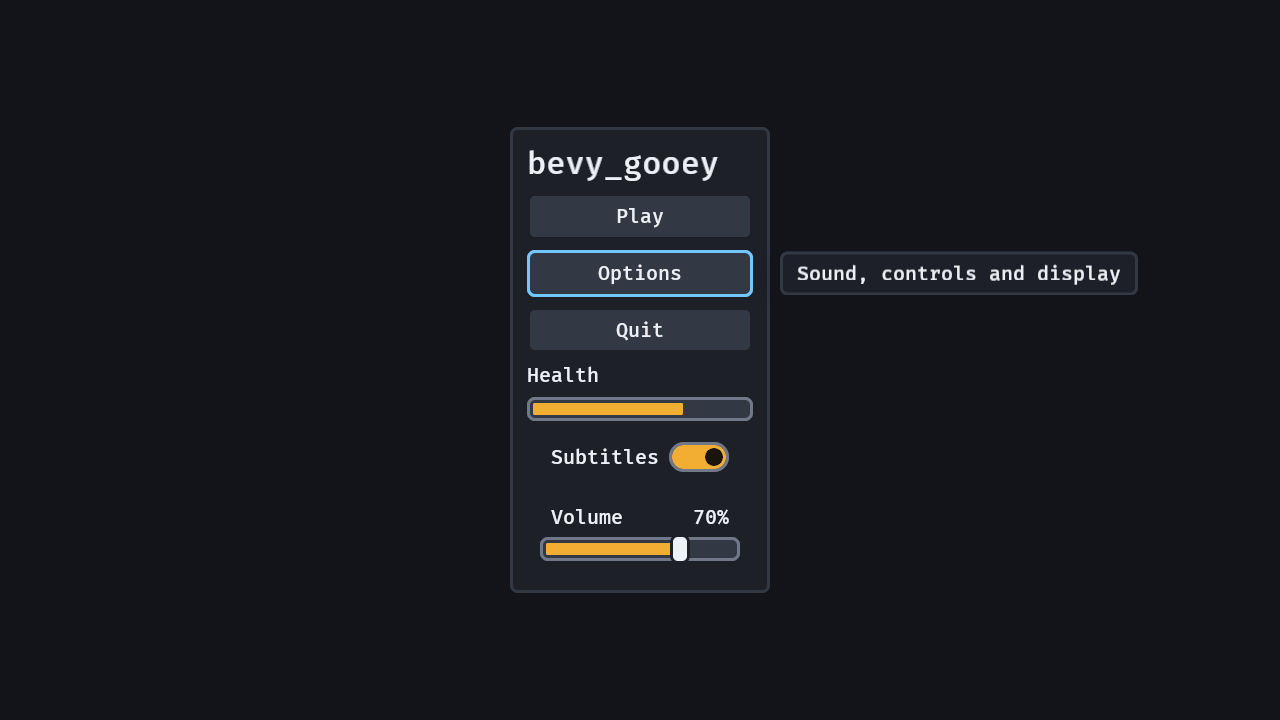
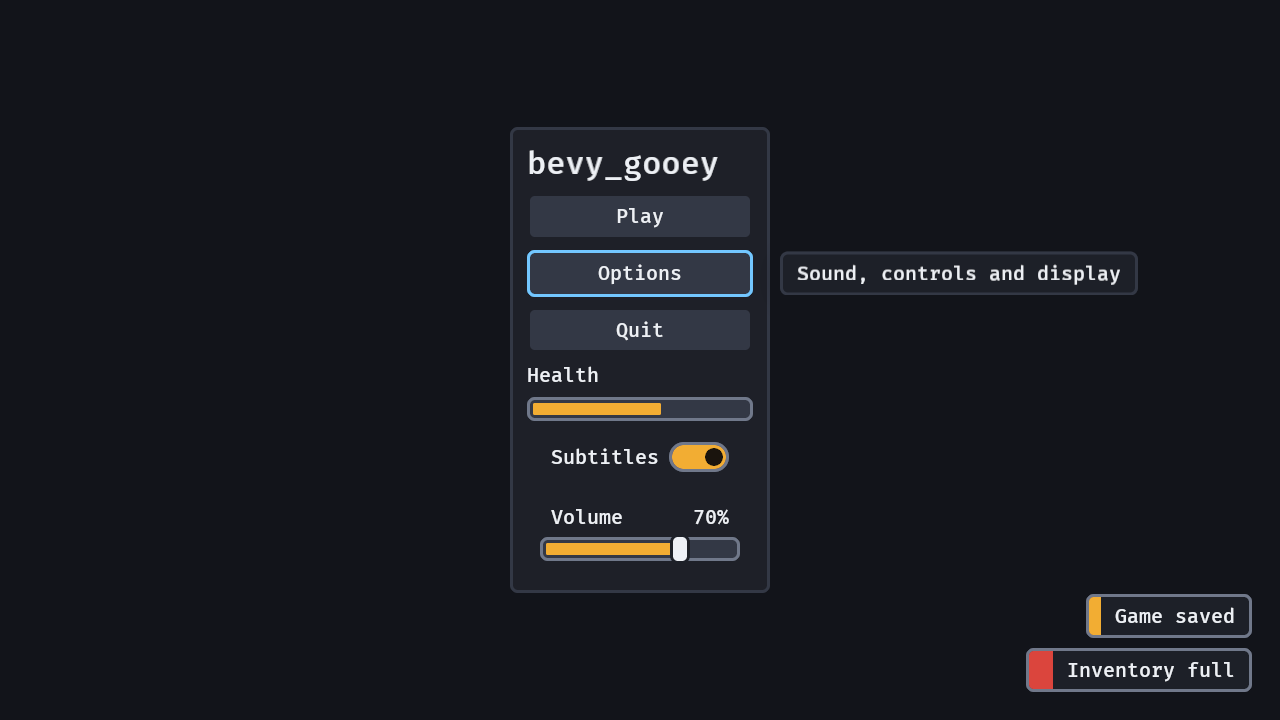
Docs: the gallery hero shows two toasts beside the tooltip

Changed region(s): [[0.7812, 0.825, 1.0, 0.9778], [0.5, 0.55, 0.5312, 0.5806]]

diff --git a/README.md b/README.md
@@ -2,7 +2,7 @@
 
 Game interfaces made easy for Bevy 0.20: a skin, ready-made game widgets and keyboard and gamepad navigation, on Bevy's own headless widgets.
 
-![The gallery example: a panel with a heading, three buttons, a health meter, a Subtitles switch and a Volume slider; Options has the focus ring and its tooltip, "Sound, controls and display", is open beside it](docs/media/gallery.png)
+![The gallery example: a panel with a heading, three buttons, a health meter, a Subtitles switch and a Volume slider; Options has the focus ring and its tooltip, "Sound, controls and display", is open beside it; two toasts, "Game saved" and "Inventory full", stand at the bottom right](docs/media/gallery.png)
 
 ## What you get
 
